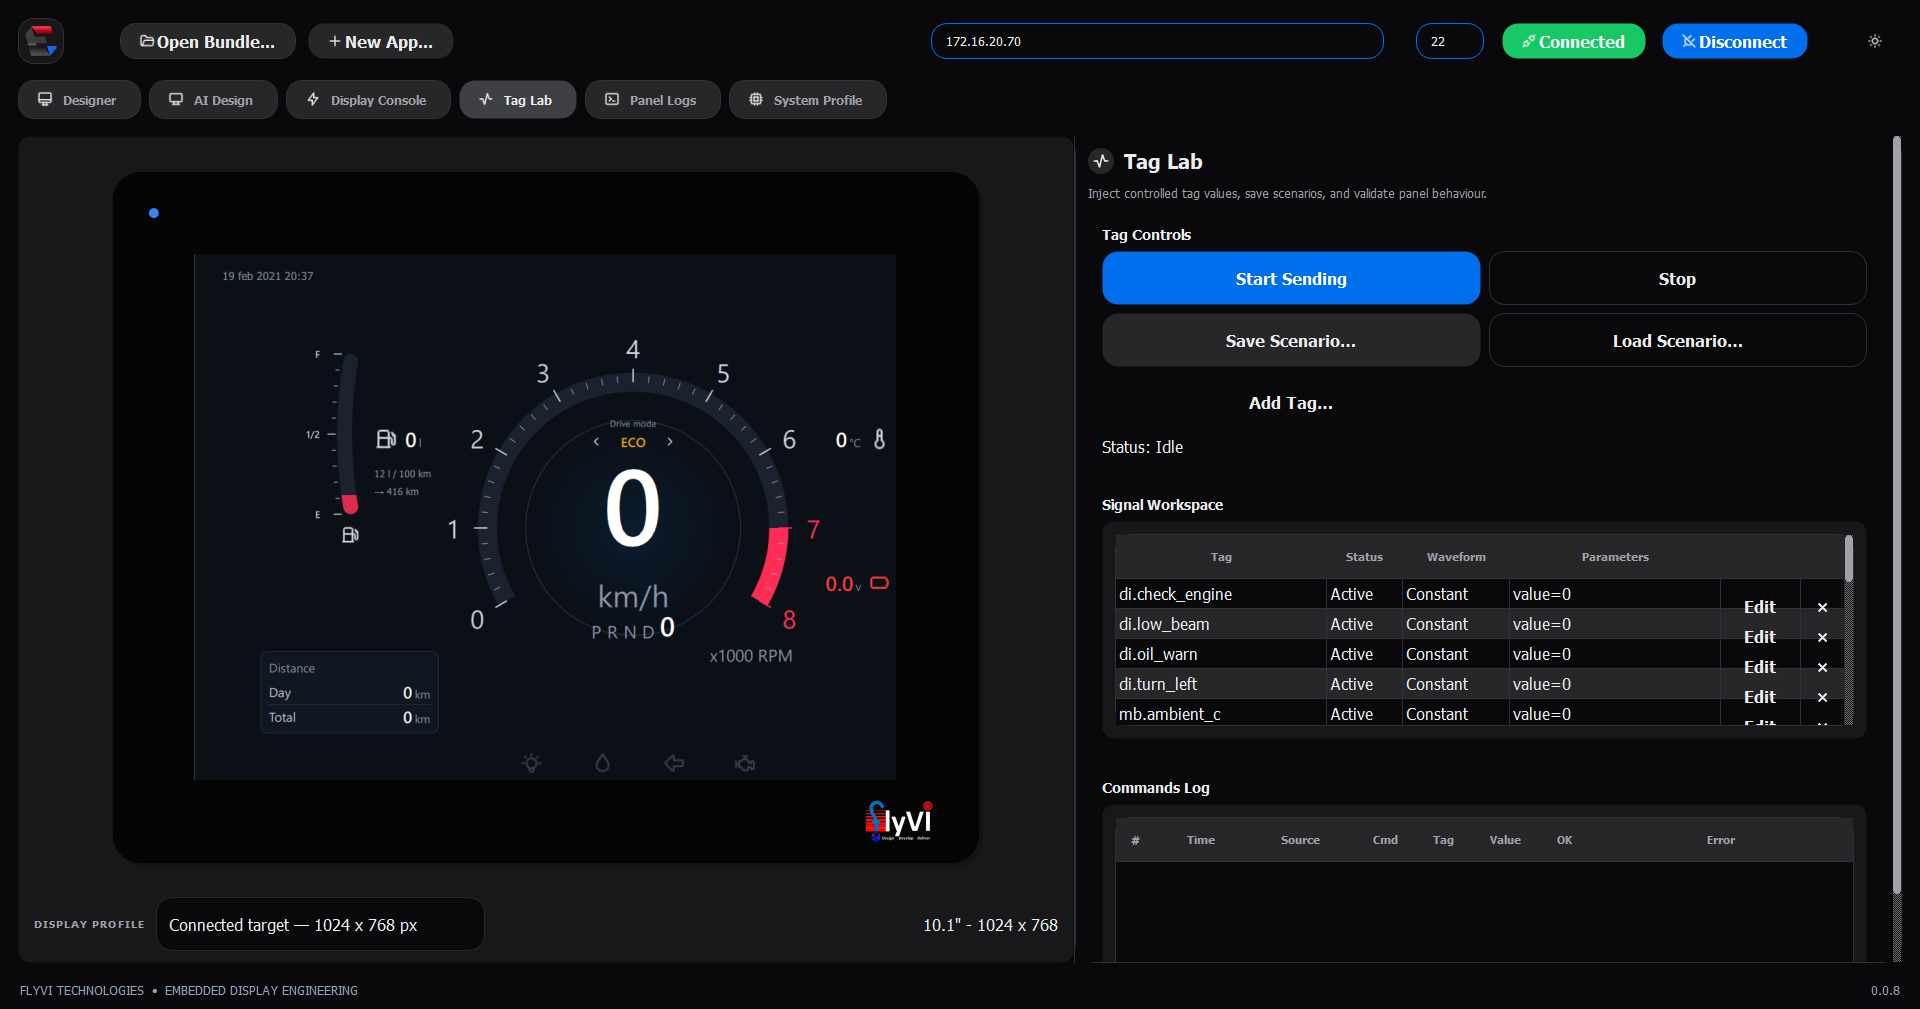
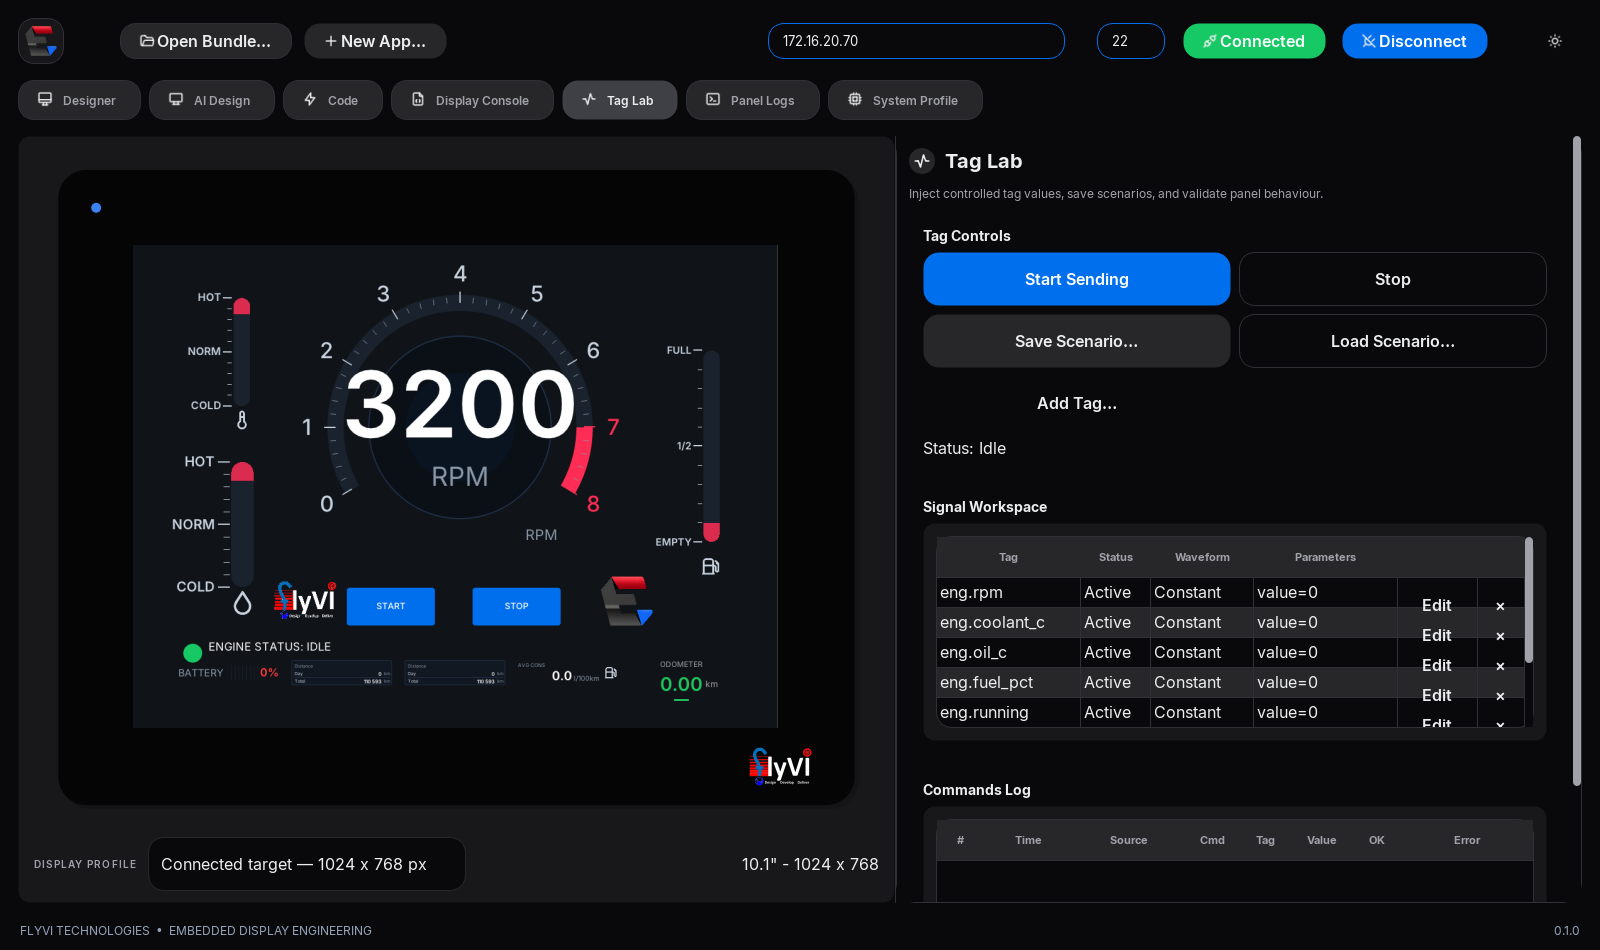
README 0.1.0: screenshots of every section, Qt-free architecture and deployment diagrams
Screenshots retaken from a Studio connected to the Verdin with the
engine-dashboard design (hmi-ui previews, Code section, live logs and
profile). architecture.mmd/svg and deploy-pipeline.mmd/svg redrawn for
the hmi-ui runtime; hardware.mmd notes DRM/KMS, no compositor. Text on
the architecture, the deployment mechanism and the captions updated;
the Qt5 bezel screenshot is labelled as the legacy path.

diff --git a/README.md b/README.md
@@ -37,7 +37,7 @@ first.</em>
 
 <br /><br />
 
-<img src="docs/assets/screenshot-designer.png" alt="The Designer workspace with the engine-dashboard project open and the Studio connected to the panel: widget library and layer tree, the canvas drawing the cluster with its real QML, the logo image selected with its eight resize handles, and the property, tag-binding, actions and chat inspectors" width="900" />
+<img src="docs/assets/screenshot-designer.png" alt="The Designer workspace with the engine-dashboard project open and the Studio connected to the panel: widget library and layer tree, the canvas drawing the cluster with the panel's own renderer, the logo image selected with its eight resize handles, and the property, tag-binding, actions and chat inspectors" width="900" />
 
 <em>The engine dashboard open in the Studio's own Designer, connected to the
 panel at the top of the window — library and layers to the left, the canvas
@@ -59,7 +59,7 @@ it to the panel with one button or one command. The app never touches a GPIO
 line, an ADC node or a serial port: it binds to **tags** that arrive over a
 loopback socket, and the platform does the rest.
 
-<img src="docs/assets/architecture.svg" alt="Studio and CLI deploy over SSH to hmi-ui on the panel; hmi-hwd feeds it tags over a loopback socket" width="900" />
+<img src="docs/assets/architecture.svg" alt="On the laptop, the Designer edits project.edsui and the Studio previews it through a headless hmi-ui and deploys it over SSH; on the panel, hmi-ui.service (C + LVGL on DRM/KMS) interprets the deployed design, draws to the display and gets its tags from hmi-hwd over a loopback socket; no Qt and no compositor on the panel" width="900" />
 
 <sub>Source: <a href="docs/assets/architecture.mmd"><code>docs/assets/architecture.mmd</code></a></sub>
 
@@ -71,14 +71,25 @@ Three layers, deliberately decoupled:
 | **2** | `hmi-ui` — the panel GUI runtime | the design file, bindings, alarms, pixels on DRM/KMS | hardware |
 | **3** | deployment | atomic install, health check, rollback | either of the above |
 
-The panel is **Qt-free**. `hmi-ui` (`native/hmi-ui`) is C11 + LVGL: it opens
-the DRM device itself, interprets the deployed `project.edsui` directly and
-renders the same widget kit the Studio shows, at parity with the Studio's QML
-preview (`tests/ui/test_widget_parity.py`). No compositor, no Qt libraries and
-no generated code run on the panel; the Studio on the desktop is still a Qt
-application. The Qt loaders of earlier phases (`gui/hmi_loader`,
-`native/hmi-gui`) remain in the repository as a legacy path for existing Qt
-bundles and are no longer provisioned.
+The panel is **Qt-free**. `hmi-ui` (`native/hmi-ui`) is C11 + LVGL 9: it opens
+the DRM/KMS device itself — no compositor — and interprets the deployed
+`project.edsui` directly: pages, all 46 widget types, tag bindings, actions,
+the alarm engine and touch. Nothing is generated for the panel and nothing is
+compiled per design; a deploy is the design file, its assets and a manifest.
+The kit it draws with (Inter fonts, Tabler icons as PNGs) lives at
+`/usr/lib/hmi/kit`.
+
+The same runtime previews the design on your machine. A headless build of
+`hmi-ui` travels inside the Studio (`hmi-ui.exe` on Windows) and renders the
+Designer canvas, the bezel and the Code section, so what the desktop shows is
+what the glass draws, pixel for pixel — `native/hmi-ui/win64/check.sh` proves
+the Windows renders identical to the Linux ones. The Studio's own chrome is Qt,
+and its interactive Live Preview window is still the desktop's Qt/QML; every
+still image is the panel's renderer.
+
+The Qt loaders of earlier phases (`gui/hmi_loader`, `native/hmi-gui`) remain in
+the repository as a legacy path for existing Qt bundles; they are no longer
+provisioned or packaged.
 
 ---
 
@@ -389,30 +400,30 @@ What happens between pressing **Deploy to Target** and the application being the
 panel's boot default. Every step is the same whether it is driven from the
 window or from `deploy_to_hmi.sh`.
 
-<img src="docs/assets/deploy-pipeline.svg" alt="From reading the application's imports through packaging, upload, checksum, atomic swap and the readiness check, to either the boot default or an automatic rollback" width="760" />
+<img src="docs/assets/deploy-pipeline.svg" alt="From validating the design's manifest through packaging, upload, checksum, atomic swap and the readiness check of hmi-ui, to either the boot default or an automatic rollback" width="760" />
 
 <sub>Source: <a href="docs/assets/deploy-pipeline.mmd"><code>docs/assets/deploy-pipeline.mmd</code></a></sub>
 
 A few of those steps are worth their own sentence.
 
-**Nothing is converted.** There is no build, no freezing, no cross-compilation:
-the panel carries a complete CPython and the Qt binding the manifest asks for,
-so the application runs there from the same sources it runs from on your
-machine. What the pipeline does is decide what travels, prove it arrived
-intact, and swap it in without a window where the panel has no UI.
+**Nothing is converted.** There is no build, no code generation for the
+target, no cross-compilation: the panel's runtime interprets `project.edsui`
+as the Designer saved it. What the pipeline does is decide what travels, prove
+it arrived intact, and swap it in without a window where the panel has no UI.
 
-**The dependency check reads the application, not a list.** Every file that
-would be packaged is parsed, each absolute import reduced to its top-level
-name, and the standard library, the bundle's own modules, the Qt bindings the
-platform pins, and anything guarded by `try: … except ImportError` are removed.
-What is left is what pip must supply — and the panel is asked to *import* each
-one, because a wheel built for another architecture is present on disk and
-still fatal at startup.
-
-**What travels is what runs.** Build outputs, caches and VCS metadata are
+**What travels is what runs.** A Studio bundle carries `manifest.json`
+(`runtime: edsui`, the screen, the tags it needs, its alarm thresholds),
+`project.edsui` and `assets/`. The QML the Studio generates for its own
+desktop preview (`generated/`), build outputs, caches and VCS metadata are
 excluded by one packer shared with the CLI, so the same folder produces a
 byte-identical tarball either way, and the checksum the target verifies does
-not depend on which tool sent it.
+not depend on which tool sent it. (A legacy Qt bundle still goes through the
+dependency check that asks the panel to *import* each module it needs.)
+
+**Readiness is the picture, not the process.** `hmi-install` restarts
+`hmi-ui.service` and waits for `/run/hmi/gui-ready`, which the runtime touches
+only once the design loaded and the first page is on the glass — a design the
+runtime cannot load never counts as deployed.
 
 **The swap cannot leave the panel dark.** `current` is promoted by `rename(2)`,
 never `rm` then `ln`. If the new release does not signal readiness within 25 s,
@@ -719,8 +730,10 @@ panel: the header's <strong>Connected</strong> badge with <strong>Disconnect</st
 beside it, the target's user and key with <strong>Export key…</strong> /
 <strong>Import key…</strong> under them, the display geometry read off the
 panel, the readiness checklist, the bundle's verdict —
-<code>Bundle Valid: automotive-cluster v1.0.0 [QML]</code> — and the one button
-that sends it, with <strong>Open Live Preview</strong> beneath. Further down:
+<code>Bundle Valid: engine-dashboard v1.1.0 [Studio design]</code> — and the one
+button that sends it, with <strong>Open Live Preview (desktop QML)</strong>
+beneath. The bezel on the left is the design as <code>hmi-ui</code> renders it,
+composed at the connected panel's 1024 × 768. Further down:
 <strong>Rollback</strong> to the release that worked, <strong>Restart GUI</strong>
 without a reboot, and the releases the panel still holds, listed from the
 panel itself. The bar and the console report the installer's own steps as the
@@ -728,21 +741,35 @@ panel reaches them.</em>
 
 <br /><br />
 
+<img src="docs/assets/screenshot-code.png" alt="The Code section: the whole screen's design JSON on the left, and the same screen rendered by hmi-ui on the right" width="880" />
+
+<em><strong>Code section.</strong> The <code>.edsui</code> of the whole screen —
+exactly what the panel interprets — with the same screen rendered by
+<code>hmi-ui</code> beside it. Switch the scope to the selected widget and the
+text and the preview follow the canvas selection; edit the JSON and
+<strong>Apply</strong> puts it back into the design as one undo step.</em>
+
+<br /><br />
+
 <img src="docs/assets/screenshot-live-preview.png" alt="The Live Preview window running the automotive cluster at the panel's resolution" width="880" />
 
-<em><strong>Live Preview window.</strong> The same generated QML the panel
-runs, in a window of its own at 1280 × 800 (shown at 75 %), on the Studio's
+<em><strong>Live Preview window.</strong> The design as the desktop's Qt/QML
+runs it, in a window of its own at 1280 × 800 (shown at 75 %), on the Studio's
 tag engine — here with no feed connected, so every bound value sits at its
 fallback and the battery readout is already red. Tag Lab, the simulator or a
-connected panel drives it; the drive-mode chevrons and tiles are operable.</em>
+connected panel drives it; the drive-mode chevrons and tiles are operable. It
+is the one preview that is not drawn by <code>hmi-ui</code>: it is interactive,
+and interaction needs a running runtime.</em>
 
 <br /><br />
 
 <img src="docs/assets/screenshot-studio.png" alt="A Qt5 application running in the live preview beside the panel it deploys to" width="880" />
 
-<em><strong>Bezel preview.</strong> A customer's Qt5 application running inside
-the preview of the panel, beside the target it deploys to — connected here to a
-10.1", 1024 × 768 panel, which is the geometry the bezel composes it at.</em>
+<em><strong>Bezel preview of a legacy Qt bundle.</strong> A customer's Qt5
+application running inside the preview of the panel, beside the target it
+deploys to — connected here to a 10.1", 1024 × 768 panel, which is the geometry
+the bezel composes it at. Qt bundles need a panel that still carries the legacy
+Qt loader; a Studio design needs no Qt on the panel at all.</em>
 
 <br /><br />
 
@@ -758,10 +785,9 @@ binds to exists.</em>
 <img src="docs/assets/screenshot-logs.png" alt="Panel Logs following the journal" width="880" />
 
 <em><strong>Panel Logs.</strong> The journal from the panel's own services,
-followed live. Here it is doing the job it exists for: the hardware daemon is
-crash-looping on a missing standard-library module, and the restart counter is
-in the thousands — a fault no deploy would have reported, because the deploy
-succeeded.</em>
+followed live — here <code>hmi-hwd</code> reporting, every five seconds, that the
+UART it was configured for is not answering. A fault no deploy would have
+reported, because the deploy succeeded.</em>
 
 <br /><br />
 
@@ -1009,6 +1035,10 @@ Apply replaces that widget or page in the model as one undo step, so `Ctrl+Z`
 in the Designer takes the whole edit back at once, and the section re-reads
 the model after every change on either side. No QML appears here: the QML
 the Studio generates is only its own desktop preview code.
+
+<div align="center">
+<img src="docs/assets/screenshot-code-widget.png" alt="The Code section in widget scope: the selected cluster gauge's design JSON beside its hmi-ui render" width="880" />
+</div>
 
 Avionics controls use the same data path as every other live HMI value. Bind,
 for example, `ShFuelQuantity.leftValue` to `fuel.left.quantity` and
